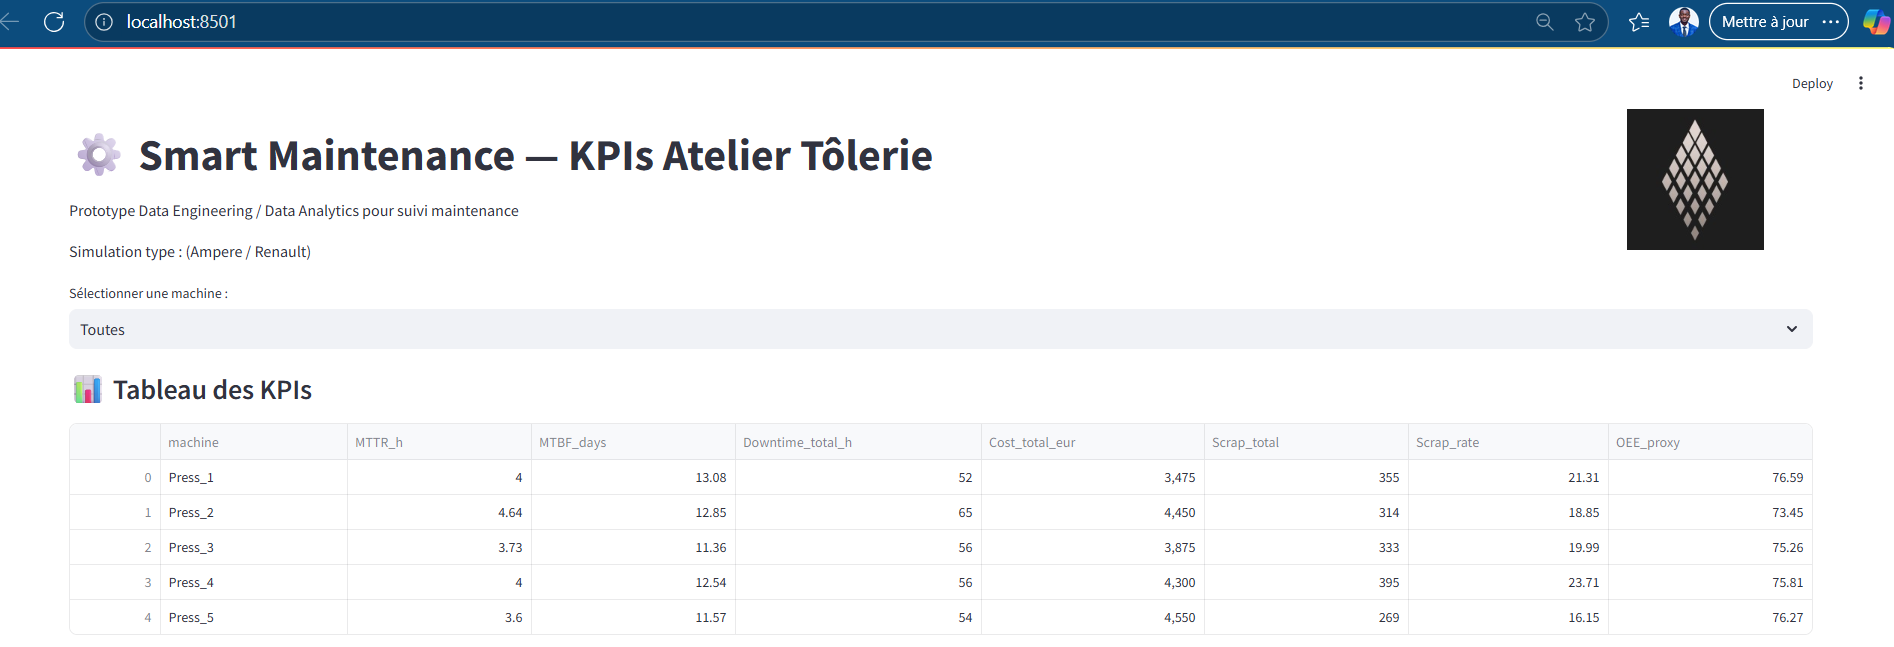
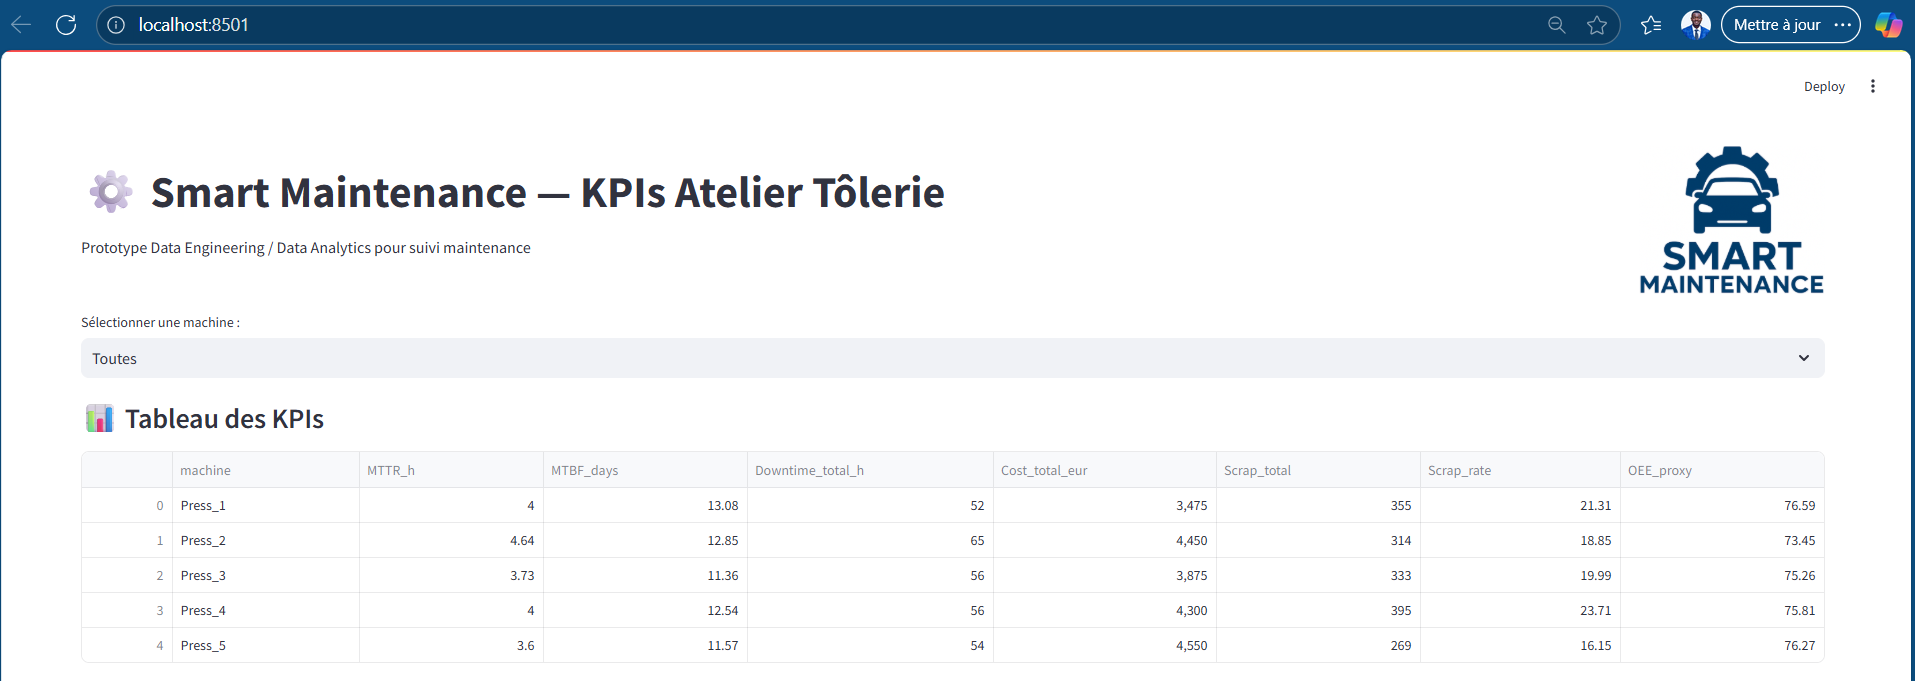
Add README.md contexte du projet, instructions et visuels

diff --git a/app.py b/app.py
@@ -19,8 +19,8 @@ col1, col2 = st.columns([8, 1])  # 8:1 ratio pour titre/logo
 with col1:
     st.title("⚙ Smart Maintenance — KPIs Atelier Tôlerie")
     st.markdown("Prototype Data Engineering / Data Analytics pour suivi maintenance")
-    st.image(logo)
-
+with col2:
+    st.image(logo, use_column_width=True)
 # --- Charger les KPIs ---
 @st.cache_data
 def load_data():
